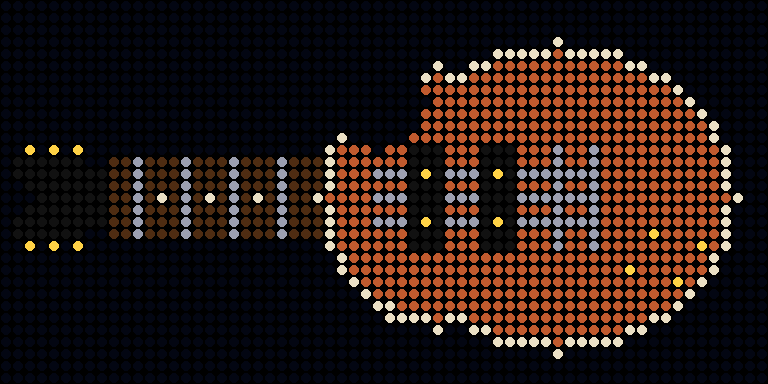
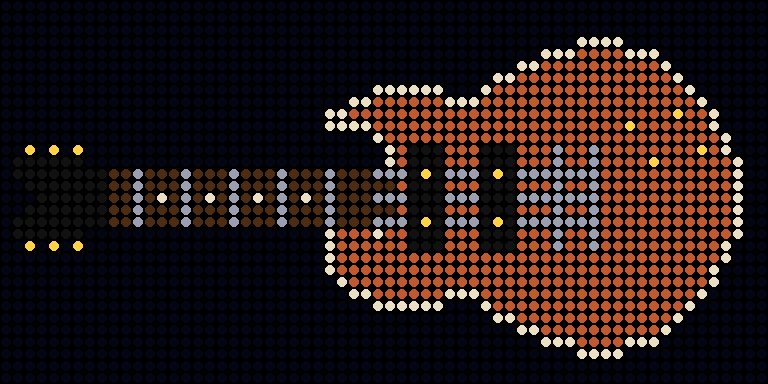
feat(rides): true Les Paul outline — asymmetric bouts, tucked cutaway, slim neck
The body was an ellipse union that read as a pineapple. It is now lofted
from a per-column half-height profile: upper bout +/-9 rows, a gentle 1-px
waist where the bouts intersect, and a lower bout swelling to +/-13 with
its widest point right of centre. The single cutaway is carved INTO the
upper bout's own footprint — a sky wedge between horn and fretboard, the
horn tip stopping at the shoulder's leftmost extent (owner art direction:
it must not jut past the body). Neck slimmed 7 -> 5 rows with the
fretboard tongue overhanging the body face; knobs moved to the treble
(cutaway) side. This is the intro icon for Rock 'n' Roller Coaster at
Disney's Hollywood Studios.

diff --git a/tools/gen_ride_designs.py b/tools/gen_ride_designs.py
@@ -2286,17 +2286,42 @@ def rock_roller():
         put(g, tx, cy - 4, "o"); put(g, tx, cy + 4, "o")
     # ---- Neck / rosewood fretboard: mostly solid wood, 4 widely-spaced frets (the
     # earlier 7 read as a barcode at panel scale), single pearl dots between them ----
-    rect(g, 9, cy - 3, 30, cy + 3, "N")          # fretboard, 7 px tall
-    for fx in (11, 15, 19, 23):                  # steel frets
-        vline(g, fx, cy - 3, cy + 3, "s")
-    for ix in (13, 17, 21):                      # pearl dot inlays
+    rect(g, 9, cy - 2, 30, cy + 2, "N")          # fretboard, 5 px tall
+    for fx in (11, 15, 19, 23, 27):              # steel frets
+        vline(g, fx, cy - 2, cy + 2, "s")
+    for ix in (13, 17, 21, 25):                  # pearl dot inlays
         put(g, ix, cy, "w")
-    # ---- Body: cream binding, then sunburst maple top (symmetric about cy) ----
-    ellipse(g, 46, cy, 15, 13, "w")              # binding (lower/main bout)
-    ellipse(g, 36, cy, 10, 11, "w")              # binding (upper bout by the neck)
-    ellipse(g, 46, cy, 14, 12, "R")              # sunburst top (main)
-    ellipse(g, 36, cy, 9, 10, "R")               # sunburst top (upper bout)
-    ellipse(g, 31, cy - 8, 4, 4, " ")            # single-cutaway bay (upper-left)
+    # ---- Body: the actual Les Paul outline, lofted from a per-column half-height
+    # profile. An ellipse union reads as a pineapple; what defines the LP is the
+    # ASYMMETRY of the bouts and how they intersect: upper bout +/-9 rows, a gentle
+    # 1-px waist, a lower bout swelling to +/-13 with its widest point in the right
+    # third, and the single-cutaway horn + scoop carved out alongside the neck. ----
+    prof = ((32, 9, 9), (33, 9, 9), (34, 9, 9), (35, 9, 9),
+            (36, 9, 9), (37, 8, 8), (38, 8, 8), (39, 8, 8), (40, 9, 9),
+            (41, 10, 10), (42, 10, 10), (43, 11, 11), (44, 11, 11), (45, 12, 12),
+            (46, 12, 12), (47, 12, 12), (48, 13, 13), (49, 13, 13), (50, 13, 13),
+            (51, 13, 13), (52, 12, 12), (53, 12, 12), (54, 12, 12), (55, 11, 11),
+            (56, 10, 10), (57, 9, 9), (58, 8, 8), (59, 7, 7), (60, 5, 5), (61, 3, 3))
+    for x, t, b in prof:                         # (x, rows above cy, rows below cy)
+        for y in range(cy - t, cy + b + 1):
+            put(g, x, y, "R")
+    for x, b in ((27, 6), (28, 7), (29, 8), (30, 8), (31, 9)):
+        for y in range(cy + 3, cy + b + 1):      # bass shoulder sneaks under the neck
+            put(g, x, y, "R")
+    # single-cutaway: the top of the upper bout mirrors the bass side's footprint, and
+    # the scoop is carved INTO it — a sky wedge between horn and fretboard. The horn
+    # tip stops at the shoulder's own leftmost extent; it never juts past the body.
+    for x, t, u in ((27, 7, 6), (28, 7, 6), (29, 8, 6), (30, 8, 6), (31, 9, 5)):
+        for y in range(cy - t, cy - u + 1):
+            put(g, x, y, "R")
+    for y in range(H):                           # cream binding: body pixels on the rim
+        for x in range(W):
+            if g[y][x] == "R" and ((x > 0 and g[y][x - 1] == " ")
+                                   or (x < W - 1 and g[y][x + 1] == " ")
+                                   or (y > 0 and g[y - 1][x] == " ")
+                                   or (y < H - 1 and g[y + 1][x] == " ")):
+                g[y][x] = "w"
+    rect(g, 30, cy - 2, 32, cy + 2, "N")         # fretboard tongue over the body face
     # ---- Strings (only over the body, nut side -> bridge) ----
     for sy in (cy - 2, cy, cy + 2):
         line(g, 31, sy, 49, sy, "s")
@@ -2308,8 +2333,8 @@ def rock_roller():
         put(g, 35, py, "o"); put(g, 41, py, "o")
     vline(g, 46, cy - 4, cy + 4, "s")            # tune-o-matic bridge
     vline(g, 49, cy - 4, cy + 4, "s")            # stopbar tailpiece
-    for kx, ky in ((52, cy + 6), (56, cy + 7), (54, cy + 3), (58, cy + 4)):
-        put(g, kx, ky, "o")                      # 4 gold top-hat knobs
+    for kx, ky in ((52, cy - 6), (56, cy - 7), (54, cy - 3), (58, cy - 4)):
+        put(g, kx, ky, "o")                      # 4 knobs on the treble (cutaway) side
     write("rock_roller", g)
 
 